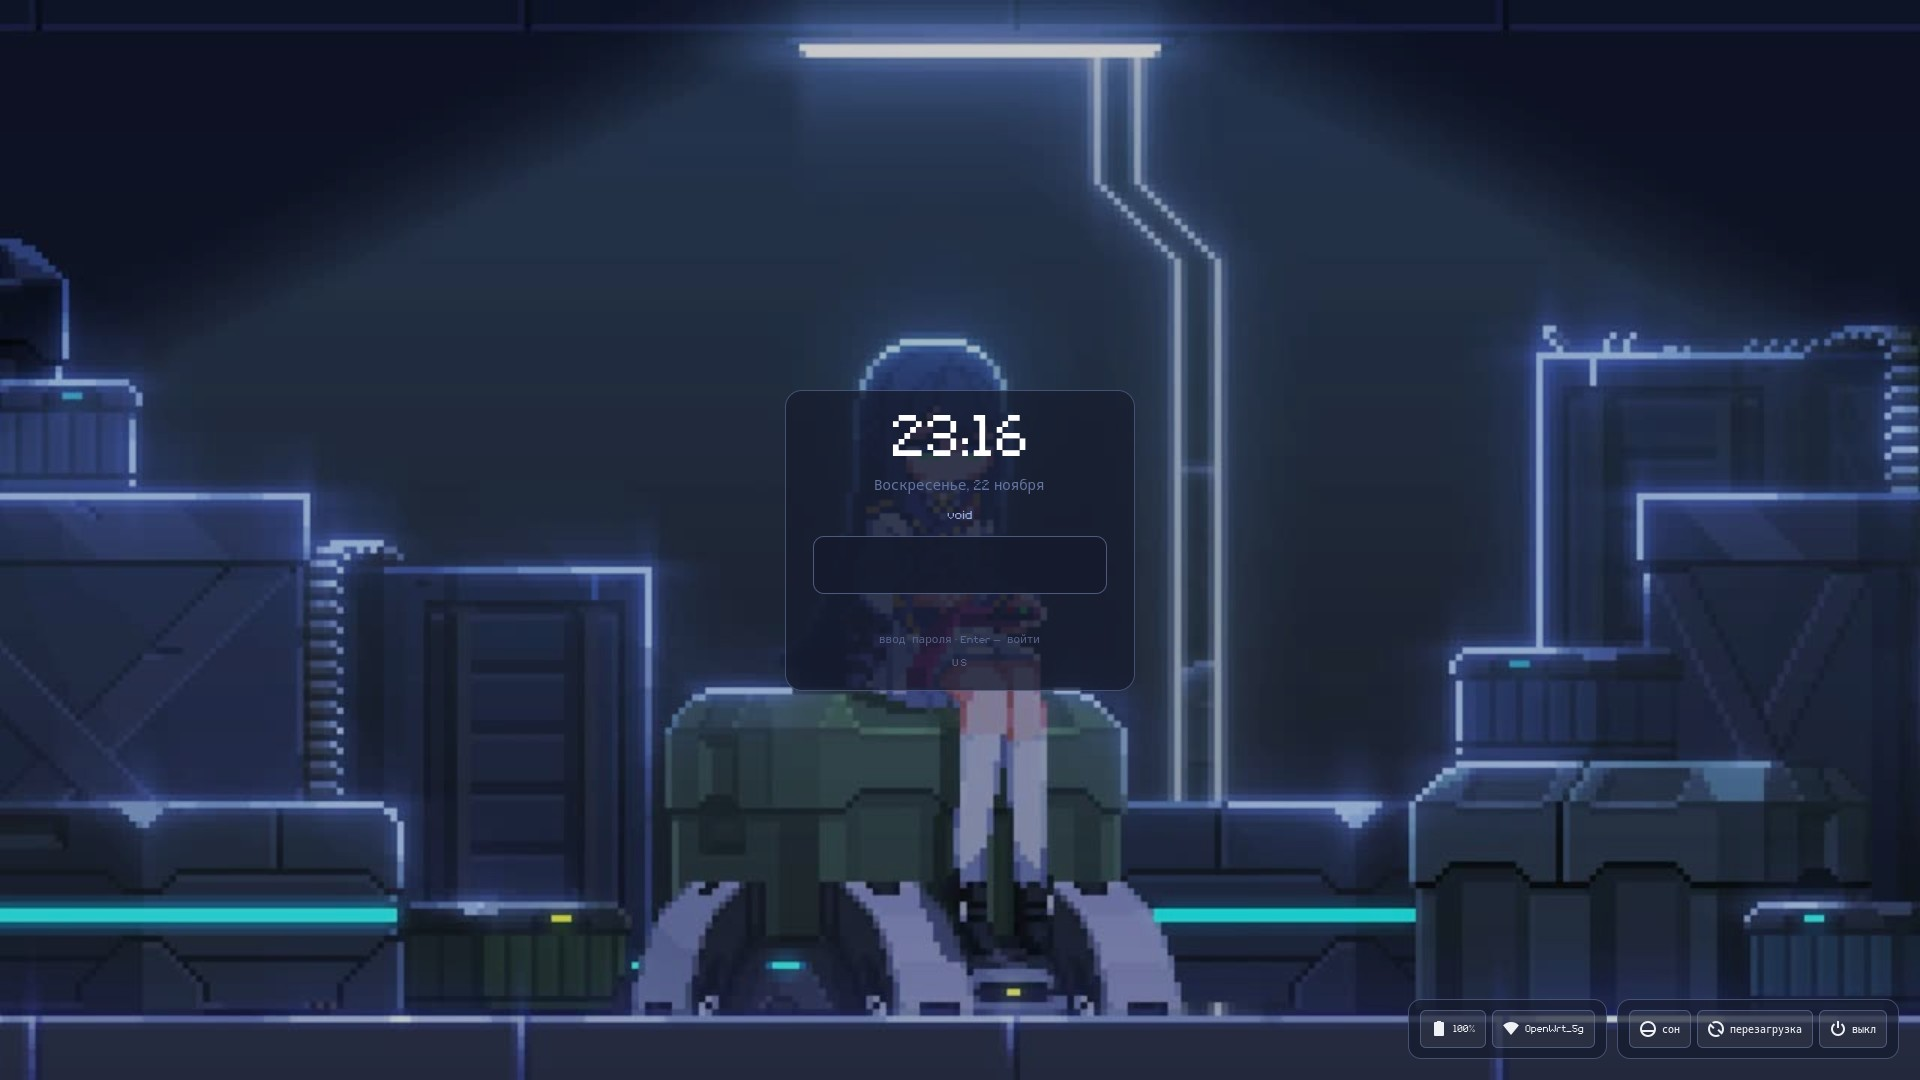
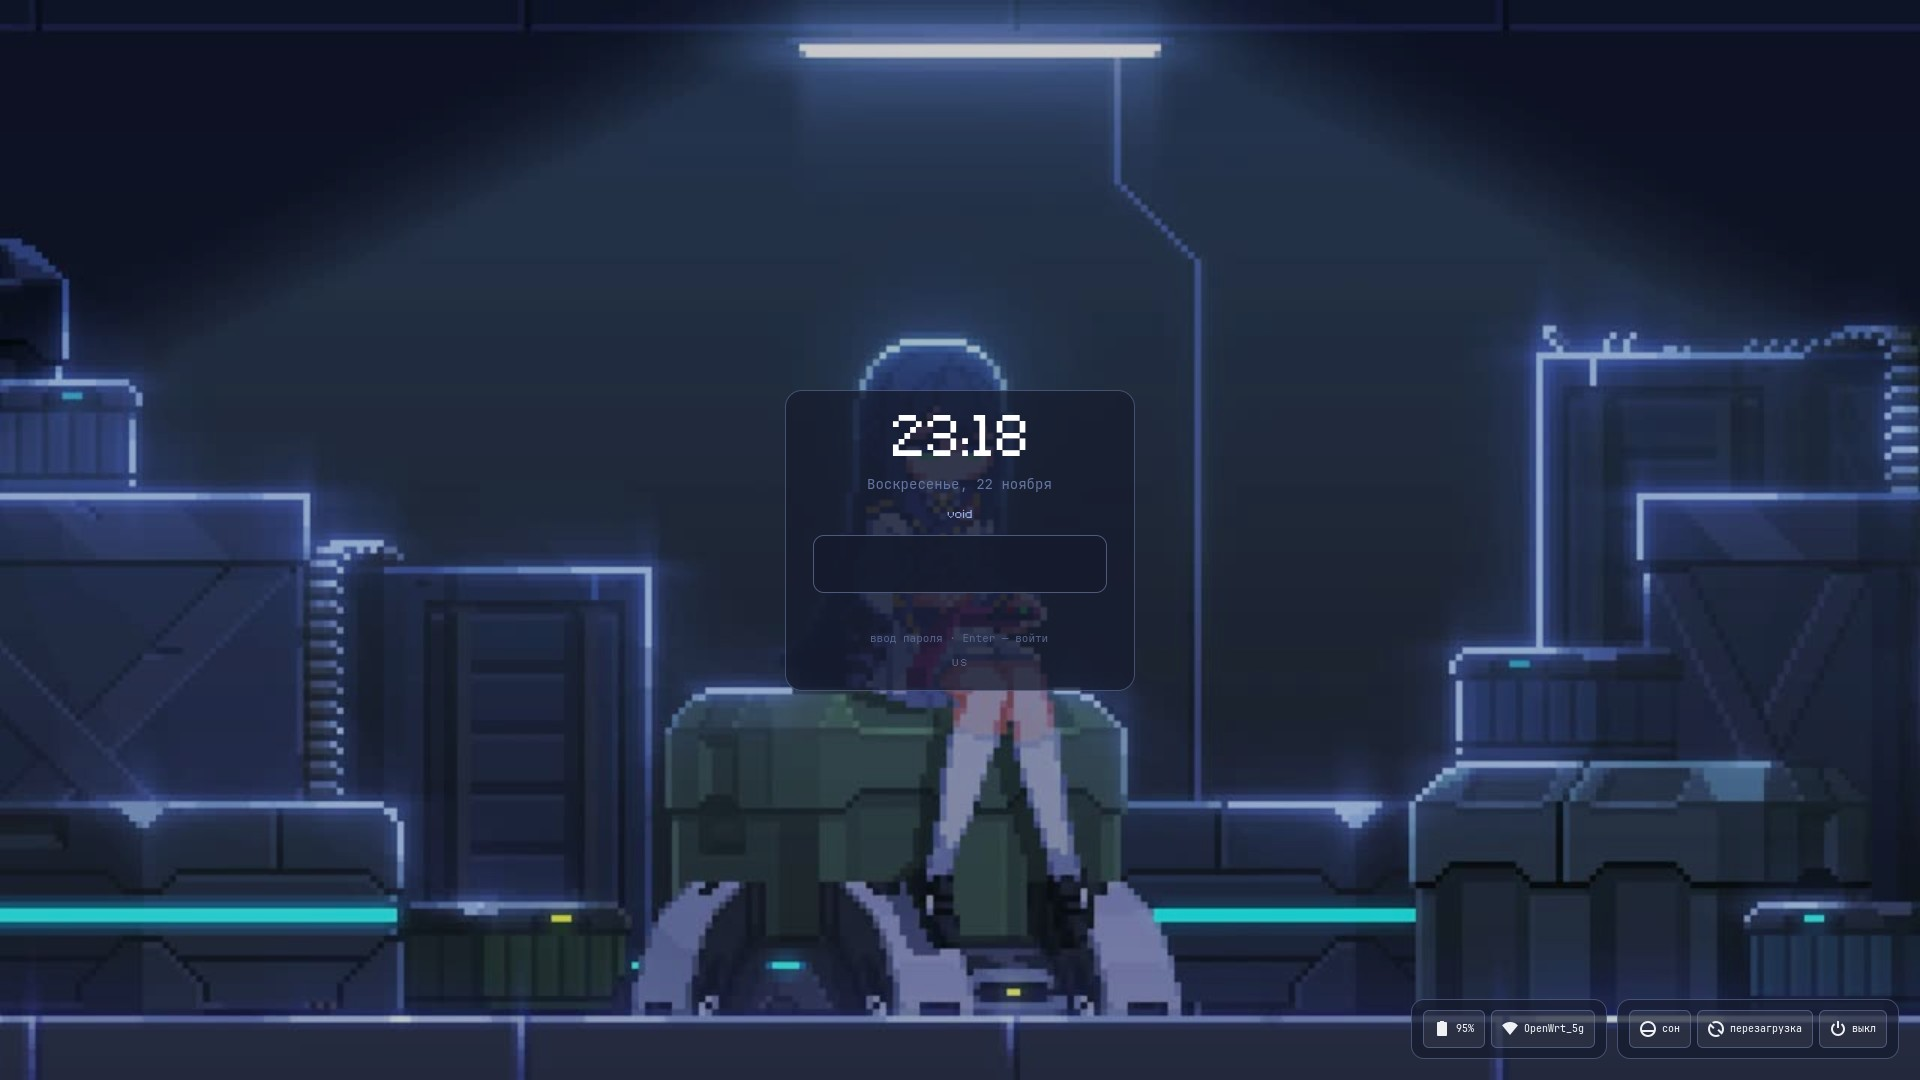
Use Cyrillic-capable UI mono; keep Pixelon for clock and dots

diff --git a/README.md b/README.md
@@ -30,7 +30,7 @@ Then bind Super+L (see [`examples/`](examples/)) and lock.
 - XDG paths, no hardcoded usernames/themes in core
 - Battery + network status; Sleep / Reboot / Power buttons
 - Wallbash accent colors from HyDE wallpaper palette
-- Pixelon UI (matches SDDM Astronaut)
+- Pixelon clock (SDDM Astronaut) + Cyrillic-capable UI mono for RU labels
 
 ## Dependencies
 
@@ -90,7 +90,8 @@ $UNLOCK_CMD = $HOME/.local/bin/videolock-unlock.sh
 | `VIDEOLOCK_VIDEO` / `POSTER` / `FRAMES` | Override paths |
 | `VIDEOLOCK_GST=1` | Try live video under lock |
 | `VIDEOLOCK_LANG=en\|ru` | UI language (default: locale) |
-| `VIDEOLOCK_FONT=…` | CSS font (default: **Pixelon**, same as SDDM Astronaut) |
+| `VIDEOLOCK_FONT=…` | Display/pixel font for clock & dots (default: **Pixelon**) |
+| `VIDEOLOCK_UI_FONT=…` | UI font for labels/buttons (auto: JetBrains/Maple/DejaVu — Pixelon has no Cyrillic) |
 | `VIDEOLOCK_RESET_LAYOUT=0` | disable auto-reset to primary layout on lock |
 | `VIDEOLOCK_SCALE=1.25` | force UI scale (default: monitor scale × density) |
 | `VIDEOLOCK_DENSITY=0.95` | shrink/grow panel vs monitor scale (default 0.95) |

diff --git a/CHANGELOG.md b/CHANGELOG.md
@@ -1,5 +1,9 @@
 # Changelog
 
+## 0.3.4 — 2026-11-22
+
+- Cyrillic-safe UI font: Pixelon stays on clock/dots; labels & buttons use JetBrains/Maple/DejaVu (`VIDEOLOCK_UI_FONT`)
+
 ## 0.3.3 — 2026-11-22
 
 - Split corner into two docks: battery/Wi‑Fi block left of the power block
